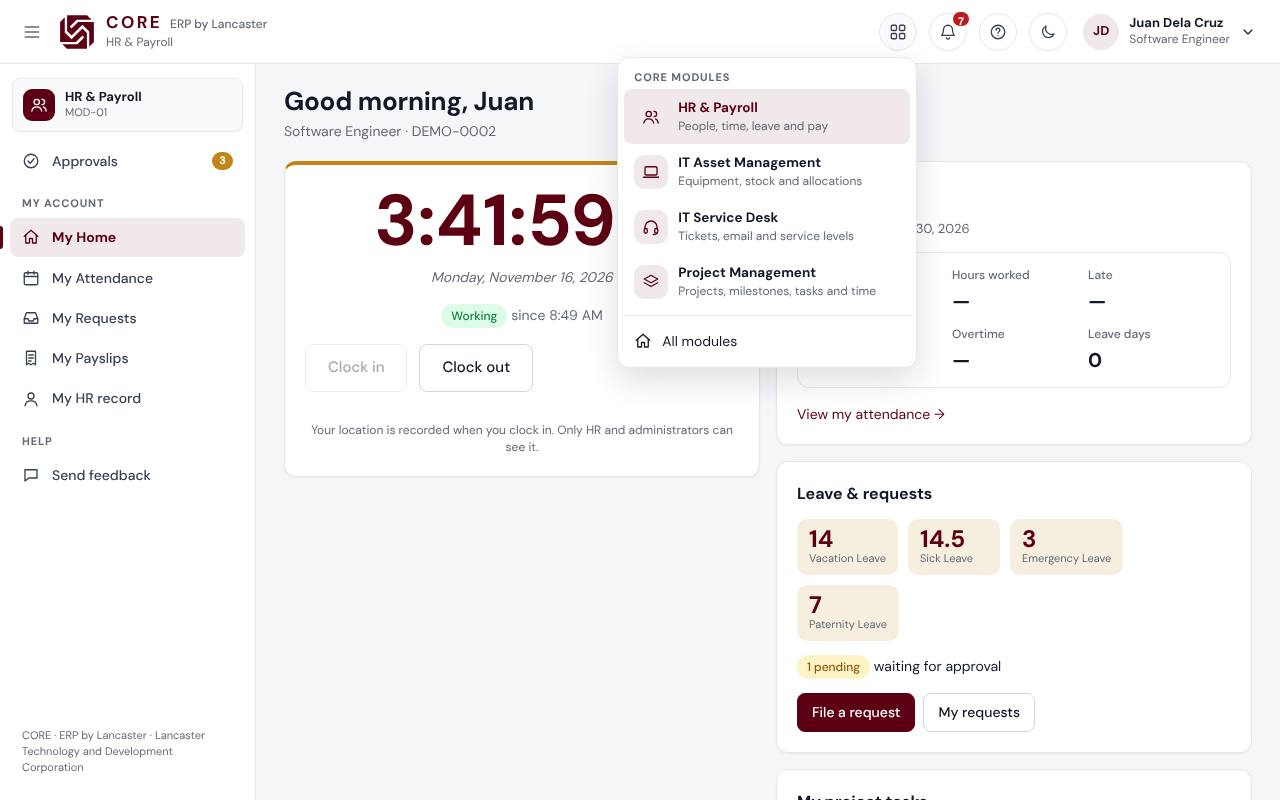
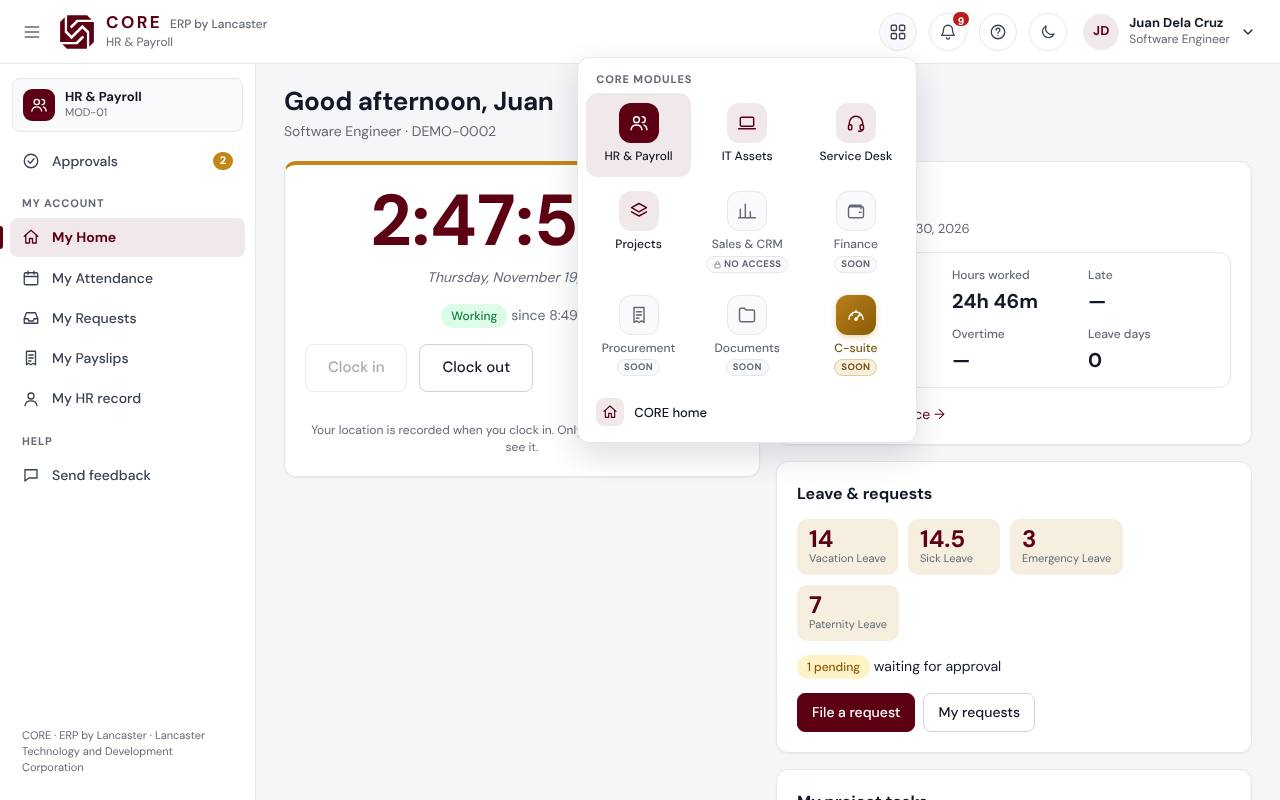
0.45.0-alpha: compact modules menu; C-suite in gold
- Modules menu: every module as a compact tile, three across, with a
  short name. Openable first (pinned leading with a star, current
  highlighted), then no-access and coming-soon tiles, greyed and
  labelled; Admin panel and CORE home below. Re-renders when a module
  is pinned on the CORE home.
- C-suite (accent: gold): gold tile in the menu; on the CORE home a
  gold top edge, icon, title, tagline and tag on a soft gold card,
  light and dark (text >= 5:1, icon on gold >= 3:1).
- Getting started guide and screenshots, what's new, dev log.

Claude-Session: https://claude.ai/code/session_01JQ4oxiUA7CnD1ir2UC84uB

diff --git a/public/css/styles.css b/public/css/styles.css
@@ -25,6 +25,8 @@
   --brand-strong: color-mix(in srgb, var(--brand) 82%, #000);
   --brand-text: var(--brand);
   --accent-soft: color-mix(in srgb, var(--accent) 14%, var(--surface));
+  /* The executive (C-suite) gold: text on light surfaces, and the icon tile's gradient. */
+  --gold-text: #87580a; --gold-tile-from: #b87f1c; --gold-tile-to: #8a5a07;
   --success: #15803d; --success-soft: #dcfce7;
   --warn: #92570a; --warn-soft: #fef3c7;
   --danger: #b91c1c; --danger-soft: #fee2e2;
@@ -54,6 +56,7 @@
   --brand-line: color-mix(in srgb, var(--brand) 50%, var(--surface));
   --brand-text: color-mix(in srgb, var(--brand) 45%, #fff);
   --accent-soft: color-mix(in srgb, var(--accent) 22%, var(--surface));
+  --gold-text: #f2c373; --gold-tile-from: #b87f1c; --gold-tile-to: #8a5a07;
   --success: #4ade80; --success-soft: #14532d55;
   --warn: #fbbf24; --warn-soft: #78350f55;
   --danger: #f87171; --danger-soft: #7f1d1d55;
@@ -1207,13 +1210,38 @@ a.fb-row { color: var(--text); }
 .topbar .brand .core-word em { font-style: normal; font-size: 12px; font-weight: 600; color: var(--muted); white-space: nowrap; }
 .topbar .brand small b { color: var(--text-2); font-weight: 600; }
 .mod-switch { position: relative; }
-.mod-pop { min-width: 300px; }
-.mod-pop a .mod-ic { width: 34px; height: 34px; border-radius: 10px; display: grid; place-items: center; background: var(--brand-soft); color: var(--brand-text); flex: none; }
-.mod-pop a span.grow { flex: 1; min-width: 0; }
-.mod-pop a strong { display: block; font-size: 13.5px; }
-.mod-pop a small { display: block; font-size: 12px; color: var(--muted); }
-.mod-pop a.on { background: var(--brand-soft); }
-.mod-pop a.on strong { color: var(--brand-text); }
+/* The modules menu (0.45): every module as a compact tile, three across. */
+.mod-pop { width: 340px; padding: 8px; }
+.mod-grid { display: grid; grid-template-columns: repeat(3, minmax(0, 1fr)); gap: 4px; margin: 2px 0 6px; }
+.menu-pop .mod-tile { position: relative; display: flex; flex-direction: column; align-items: center; justify-content: flex-start; gap: 6px; padding: 10px 4px 8px; min-height: 84px; border-radius: 12px; text-align: center; color: var(--text); }
+.mod-tile .mod-ic { width: 40px; height: 40px; border-radius: 12px; display: grid; place-items: center; background: var(--brand-soft); color: var(--brand-text); flex: none; }
+.mod-tile .mod-name { font-size: 12px; font-weight: 600; line-height: 1.2; overflow-wrap: anywhere; }
+.menu-pop a.mod-tile:hover { background: var(--surface-2); }
+.menu-pop a.mod-tile.on { background: var(--brand-soft); }
+.menu-pop a.mod-tile.on .mod-ic { background: var(--brand); color: #fff; }
+.mod-tile.locked, .mod-tile.soon { cursor: default; color: var(--muted); }
+.mod-tile.locked .mod-ic, .mod-tile.soon .mod-ic { background: var(--surface-2); color: var(--muted); border: 1px solid var(--border); }
+.mod-tile .mod-tag { display: inline-flex; align-items: center; gap: 2px; margin-top: -2px; padding: 0 6px; border-radius: 999px; background: var(--surface-2); border: 1px solid var(--border); color: var(--muted); font-size: 9.5px; font-weight: 700; letter-spacing: 0.04em; line-height: 15px; text-transform: uppercase; }
+.mod-tile .mod-pin { position: absolute; top: 6px; right: 8px; color: var(--accent); }
+.mod-tile .mod-pin .ic { fill: currentColor; }
+.menu-pop .mod-row { gap: 10px; padding: 8px 10px; }
+.mod-row .mod-ic { width: 28px; height: 28px; border-radius: 8px; display: grid; place-items: center; background: var(--brand-soft); color: var(--brand-text); flex: none; }
+.mod-row strong { font-size: 13px; font-weight: 600; }
+.menu-pop a.mod-row.on { background: var(--brand-soft); }
+
+/* C-suite, the executive module: a gold accent, on its tile and on its CORE home card (0.45). */
+.mod-tile.accent-gold { color: var(--gold-text); }
+.mod-tile.accent-gold .mod-ic { background: linear-gradient(135deg, var(--gold-tile-from), var(--gold-tile-to)); color: #fff; border: 0; box-shadow: 0 2px 6px color-mix(in srgb, var(--accent) 35%, transparent); }
+.mod-tile.accent-gold .mod-tag { background: var(--accent-soft); border-color: color-mix(in srgb, var(--accent) 45%, var(--surface)); color: var(--gold-text); }
+.sys-card.soon.accent-gold { background: linear-gradient(160deg, color-mix(in srgb, var(--accent) 10%, var(--surface)) 0%, var(--surface) 55%); border-color: color-mix(in srgb, var(--accent) 45%, var(--surface)); box-shadow: 0 6px 18px color-mix(in srgb, var(--accent) 16%, transparent); cursor: default; }
+.sys-card.soon.accent-gold::before { background: linear-gradient(90deg, var(--gold-tile-from), var(--gold-tile-to), var(--gold-tile-from)); height: 5px; }
+.sys-card.soon.accent-gold .sys-ic { background: linear-gradient(135deg, var(--gold-tile-from), var(--gold-tile-to)); color: #fff; border: 0; filter: none; box-shadow: 0 4px 12px color-mix(in srgb, var(--accent) 30%, transparent); }
+.sys-card.soon.accent-gold .sys-name { color: var(--gold-text); }
+.sys-card.soon.accent-gold .sys-open { color: var(--gold-text); }
+.sys-card.soon.accent-gold p { color: var(--text-2); }
+.sys-tagline { font-size: 11px; font-weight: 700; letter-spacing: 0.08em; text-transform: uppercase; color: var(--muted); }
+.sys-card.accent-gold .sys-tagline { color: var(--gold-text); }
+.badge.gold { background: var(--accent-soft); color: var(--gold-text); border: 1px solid color-mix(in srgb, var(--accent) 40%, var(--surface)); }
 .nav-module { display: flex; align-items: center; gap: 10px; margin: 2px 2px 10px; padding: 10px 10px; border-radius: var(--radius-sm); background: var(--surface-2); border: 1px solid var(--border); }
 .nav-module .mod-ic { width: 32px; height: 32px; border-radius: 9px; display: grid; place-items: center; background: var(--brand); color: #fff; flex: none; }
 .nav-module strong { display: block; font-size: 13px; line-height: 1.2; color: var(--text); white-space: nowrap; overflow: hidden; text-overflow: ellipsis; }
@@ -1257,7 +1285,7 @@ body.launcher-mode main#app { padding: 0; max-width: none; display: flex; flex-d
 }
 @media (max-width: 960px) {
   .hub-hero .hero-mark { width: 140px; height: 140px; right: 4%; }
-  .mod-pop { position: fixed; left: 10px; right: 10px; top: calc(var(--topbar) + 4px); min-width: 0; }
+  .mod-pop { position: fixed; left: 10px; right: 10px; top: calc(var(--topbar) + 4px); min-width: 0; width: auto; }
 }
 @media (max-width: 760px) {
   .table.stackable tr.unread td:first-child, .table.stackable tr.flag-row td:first-child { box-shadow: none; }

diff --git a/shared/modules.js b/shared/modules.js
@@ -1,25 +1,26 @@
 // CORE's modules, as shown on the launcher and in the module switcher. Live modules have
-// screens and a home route; the rest are on the roadmap. `glyph` names an icon in icons.js.
+// screens and a home route; the rest are on the roadmap. `glyph` names an icon in icons.js;
+// `short` is the name on a tile of the modules menu; `accent: 'gold'` marks the executive module.
 // Shared by the server (which refuses the API of a module that is turned off) and the browser.
 export const MODULES = [
-  { id: 'hr', code: 'MOD-01', name: 'HR & Payroll', glyph: 'users', status: 'live', tagline: 'People, time, leave and pay',
+  { id: 'hr', short: 'HR & Payroll', code: 'MOD-01', name: 'HR & Payroll', glyph: 'users', status: 'live', tagline: 'People, time, leave and pay',
     description: 'Employee records, time and attendance, leave and remote-work approvals, and Philippine payroll.' },
-  { id: 'assets', code: 'MOD-02', name: 'IT Asset Management', glyph: 'laptop', status: 'live', tagline: 'Equipment, stock and allocations',
+  { id: 'assets', short: 'IT Assets', code: 'MOD-02', name: 'IT Asset Management', glyph: 'laptop', status: 'live', tagline: 'Equipment, stock and allocations',
     description: 'Laptops, devices and consumable stock: who holds what, where it is, its warranty and full history.' },
-  { id: 'helpdesk', code: 'MOD-07', name: 'IT Service Desk', glyph: 'headset', status: 'live', tagline: 'Tickets, email and service levels',
+  { id: 'helpdesk', short: 'Service Desk', code: 'MOD-07', name: 'IT Service Desk', glyph: 'headset', status: 'live', tagline: 'Tickets, email and service levels',
     description: 'Support tickets from the portal, by email and from the public form, with assignment, internal notes and service levels.' },
-  { id: 'crm', code: 'MOD-06', name: 'Sales & CRM', glyph: 'chart', status: 'live', tagline: 'Leads, pipeline, bids and contracts',
+  { id: 'crm', short: 'Sales & CRM', code: 'MOD-06', name: 'Sales & CRM', glyph: 'chart', status: 'live', tagline: 'Leads, pipeline, bids and contracts',
     description: 'Leads, accounts and contacts, a drag-and-drop deal pipeline with forecasts, public bids with document checklists, and contract renewals.' },
-  { id: 'projects', code: 'MOD-05', name: 'Project Management', glyph: 'layers', status: 'live', tagline: 'Projects, milestones, tasks and time',
+  { id: 'projects', short: 'Projects', code: 'MOD-05', name: 'Project Management', glyph: 'layers', status: 'live', tagline: 'Projects, milestones, tasks and time',
     description: 'Client, government and internal projects: milestones and deliverables, a task board, a timeline, time logs, and who has how much work.' },
-  { id: 'finance', code: 'MOD-03', name: 'Finance & Accounting', glyph: 'wallet', status: 'soon',
+  { id: 'finance', short: 'Finance', code: 'MOD-03', name: 'Finance & Accounting', glyph: 'wallet', status: 'soon',
     description: 'General ledger, payables and receivables, budgets and financial statements.' },
-  { id: 'procurement', code: 'MOD-04', name: 'Procurement', glyph: 'receipt', status: 'soon',
+  { id: 'procurement', short: 'Procurement', code: 'MOD-04', name: 'Procurement', glyph: 'receipt', status: 'soon',
     description: 'Purchase requests and approvals, suppliers, purchase orders and deliveries.' },
 
-  { id: 'documents', code: 'MOD-08', name: 'Document Management', glyph: 'folder', status: 'soon',
+  { id: 'documents', short: 'Documents', code: 'MOD-08', name: 'Document Management', glyph: 'folder', status: 'soon',
     description: 'Contracts, compliance files, templates and approvals.' },
-  { id: 'csuite', code: 'MOD-09', name: 'C-suite', glyph: 'gauge', status: 'soon', tagline: 'Executive dashboard',
+  { id: 'csuite', short: 'C-suite', code: 'MOD-09', name: 'C-suite', glyph: 'gauge', status: 'soon', accent: 'gold', tagline: 'Executive dashboard',
     description: 'The executive dashboard: revenue and pipeline, headcount and payroll cost, projects at risk and service levels from every module, on one page.' },
 ];
 

diff --git a/public/js/app.js b/public/js/app.js
@@ -340,20 +340,32 @@ const closePops = () => {
 };
 document.addEventListener('click', (e) => !e.target.closest('.user-menu, .mod-switch') && closePops());
 
-// The grid button: jump between modules without going back to the launcher.
+// The grid button: every module at a glance, as compact tiles (0.45). The ones this account opens
+// come first (pinned ones leading, as on the CORE home), then locked ones and those coming soon,
+// greyed out; C-suite has its gold accent.
 function renderModuleSwitch() {
   const box = document.getElementById('mod-switch');
-  const items = liveModules().map((m) => ({ ...m, home: moduleHome(m.id) })).filter((m) => m.home);
+  const live = liveModules().filter((m) => mayUseModule(m.id)).map((m) => ({ ...m, home: moduleHome(m.id) }));
+  const pins = (ctx.user?.favoriteModules || []).filter((id) => live.some((m) => m.id === id && m.home));
+  const open = [...pins.map((id) => live.find((m) => m.id === id)), ...live.filter((m) => m.home && !pins.includes(m.id))];
+  const locked = live.filter((m) => !m.home);
+  const soon = MODULES.filter((m) => m.status !== 'live');
+  const tile = (m, kind) => {
+    const cls = `mod-tile ${kind}${m.accent ? ` accent-${m.accent}` : ''}`;
+    const inner = html`<span class="mod-ic">${icon(m.glyph, 20)}</span><span class="mod-name">${m.short || m.name}</span>${kind === 'soon' ? html`<span class="mod-tag">Soon</span>` : kind === 'locked' ? html`<span class="mod-tag">${icon('lock', 9)} No access</span>` : pins.includes(m.id) ? html`<span class="mod-pin" aria-hidden="true">${icon('star', 10)}</span>` : ''}`;
+    if (kind === 'open') return html`<a role="menuitem" class="${cls}" href="#${m.home}" data-mod="${m.id}" title="${m.name}: ${moduleOn(m.id) ? m.tagline : 'off for the company, administrators only'}">${inner}</a>`;
+    return html`<span role="menuitem" aria-disabled="true" class="${cls}" title="${m.name}: ${kind === 'soon' ? 'coming soon' : 'no access, ask your administrator'}">${inner}</span>`;
+  };
   mount(box, html`
     <button type="button" class="round-btn" id="mod-btn" title="Modules" aria-label="Modules" aria-haspopup="menu" aria-expanded="false">${icon('grid', 18)}</button>
     <div class="menu-pop mod-pop" id="mod-pop" role="menu" hidden>
       <div class="menu-label">CORE modules</div>
-      ${items.map((m) => html`<a role="menuitem" href="#${m.home}" data-mod="${m.id}"><span class="mod-ic">${icon(m.glyph, 18)}</span><span class="grow"><strong>${m.name}</strong><small>${moduleOn(m.id) ? m.tagline : 'Off for the company · administrators only'}</small></span></a>`)}
-      ${panelAccess() ? html`<div class="menu-sep"></div><a role="menuitem" href="#/admin/dashboard" data-mod="system"><span class="mod-ic">${icon('settings', 18)}</span><span class="grow"><strong>Admin panel</strong><small>Users, roles, modules, settings and data</small></span></a>` : ''}
-      <div class="menu-sep"></div>
-      <a role="menuitem" href="#/launcher">${icon('home')} <span class="grow">All modules</span></a>
+      <div class="mod-grid">${open.map((m) => tile(m, 'open'))}${locked.map((m) => tile(m, 'locked'))}${soon.map((m) => tile(m, 'soon'))}</div>
+      ${panelAccess() ? html`<div class="menu-sep"></div><a role="menuitem" class="mod-row" href="#/admin/dashboard" data-mod="system"><span class="mod-ic">${icon('settings', 16)}</span><span class="grow"><strong>Admin panel</strong></span></a>` : ''}
+      <a role="menuitem" class="mod-row" href="#/launcher"><span class="mod-ic">${icon('home', 16)}</span><span class="grow"><strong>CORE home</strong></span></a>
     </div>`);
   popover(box, box.querySelector('#mod-btn'), box.querySelector('#mod-pop'));
+  markModuleSwitch();
 }
 function markModuleSwitch() {
   document.querySelectorAll('#mod-pop a[data-mod]').forEach((a) => a.classList.toggle('on', !body.classList.contains('launcher-mode') && a.dataset.mod === ctx.module));

diff --git a/public/js/views/launcher.js b/public/js/views/launcher.js
@@ -100,8 +100,9 @@ export async function launcherView(el) {
         </div>`;
   };
   // A module still in development: greyed out at the end of the row, as on the ATLAS home.
-  const soonCard = (m) => html`<div class="sys-card soon" data-module="${m.id}" aria-disabled="true" title="${m.name} is coming soon">
-      <span class="sys-top"><span class="sys-ic">${icon(m.glyph, 26)}</span><span class="badge gray">${icon('lock', 12)} Coming soon</span></span>
+  // C-suite (accent: gold) has a gold accent: the executive module.
+  const soonCard = (m) => html`<div class="sys-card soon${m.accent ? ` accent-${m.accent}` : ''}" data-module="${m.id}" aria-disabled="true" title="${m.name} is coming soon">
+      <span class="sys-top"><span class="sys-ic">${icon(m.glyph, 26)}</span><span class="badge ${m.accent === 'gold' ? 'gold' : 'gray'}">${icon('lock', 12)} Coming soon</span></span>${m.tagline ? html`<span class="sys-tagline">${m.tagline}</span>` : ''}
       <strong class="sys-name" style="font-size:20px">${m.name}</strong>
       <p>${m.description}</p>
       <span class="sys-open">Not available yet</span>
@@ -185,6 +186,7 @@ export async function launcherView(el) {
     try {
       const r = await api.put('/api/me/favorite-modules', { modules: next });
       ctx.user.favoriteModules = r.favoriteModules;
+      window.dispatchEvent(new Event('modules:changed')); // the modules menu puts pinned ones first too
     } catch (err) {
       btn.disabled = false;
       toast(err.message || 'Could not save your pinned modules.', 'error');

diff --git a/shared/devlog.js b/shared/devlog.js
@@ -28,6 +28,17 @@ export const CHANGE_TYPES = { new: 'Added', improved: 'Changed', fixed: 'Fixed' 
 
 export const DEVLOG = [
   {
+    version: '0.45.0-alpha',
+    date: '2026-11-19',
+    title: 'A compact modules menu, and C-suite in gold',
+    modules: ['system'],
+    notes: 'The modules menu listed only the modules you could open, one per line with a description. It now shows all of them at a glance.',
+    changes: [
+      ['improved', 'system', 'Modules menu (the grid button): every module as a compact tile, three across, with a short name (HR & Payroll, IT Assets, Service Desk…). Modules you can open come first, your pinned ones leading with a star and the current one highlighted; then the ones you have no access to and the ones coming soon, greyed out and labelled. Admin panel and CORE home stay below. It follows a pin made on the CORE home at once.'],
+      ['new', 'system', 'C-suite, the executive module, has a gold accent: a gold tile in the menu, and on the CORE home a gold top edge, icon, title and tag on a soft gold card, in light and dark mode (gold text at least 5:1, the icon on gold at least 3:1).'],
+    ],
+  },
+  {
     version: '0.44.0-alpha',
     date: '2026-11-19',
     title: 'A fuller Project Management demo',

diff --git a/docs/guides/getting-started.md b/docs/guides/getting-started.md
@@ -46,7 +46,7 @@ This tour uses the demo data. Sign in as `employee.demo` with the password `demo
 ![A module: the side menu on the left, and the top bar](getting-started-module.jpg)
 
 5. Look at the top bar. On the right are, in order: the **modules** button (the grid of squares), the **notifications** bell, **Help** (the question mark), the **dark mode** button (the moon) and your name. On a phone the dark mode button is in the menu under your name.
-6. Choose the **modules** button. The menu lists **CORE modules** you can open; choose one to switch to it, or **All modules** for the CORE home.
+6. Choose the **modules** button. The menu shows every CORE module as a small tile, three across: the ones you can open first (your pinned ones leading, with a star), then the ones you have no access to and the ones coming soon, greyed out. **C-suite**, the executive dashboard, has a gold tile. Choose a tile to switch to that module, or **CORE home** at the bottom.
 
 ![The modules menu](getting-started-modules.jpg)
 
@@ -81,7 +81,7 @@ If your company requires 2-step verification and you have not set it up, CORE sh
 1. On the CORE home, choose **Open** on the module's card. Or, from anywhere, choose the **modules** button at the top right and pick the module.
 2. The module opens on its first page. Its pages are in the side menu on the left.
 
-To go back to the CORE home, choose the CORE logo at the top left, or **All modules** in the modules menu.
+To go back to the CORE home, choose the CORE logo at the top left, or **CORE home** in the modules menu.
 
 ### Pin your modules to the front
 

diff --git a/docs/guides/whats-new.md b/docs/guides/whats-new.md
@@ -9,6 +9,9 @@ order: 2
 
 ## November 2026
 
+### A compact modules menu (0.45)
+- The **modules** button at the top now shows every module at a glance, as small tiles: the ones you can open first (pinned ones leading), then the ones coming soon. **C-suite**, the executive dashboard, has a gold accent there and on the CORE home. See [Getting started](getting-started#walkthrough).
+
 ### A fuller projects demo (0.44)
 - The demo data now has **26 projects** with about 260 tasks: most of them deliver the deals and contracts in the sales demo, so the portfolio, **Milestones**, the **Billing forecast**, the workload and **My work** look like a busy company. Three support contracts track time. Reload it under **Admin panel → Demo data**. See [the projects guide](projects#walkthrough).
 
